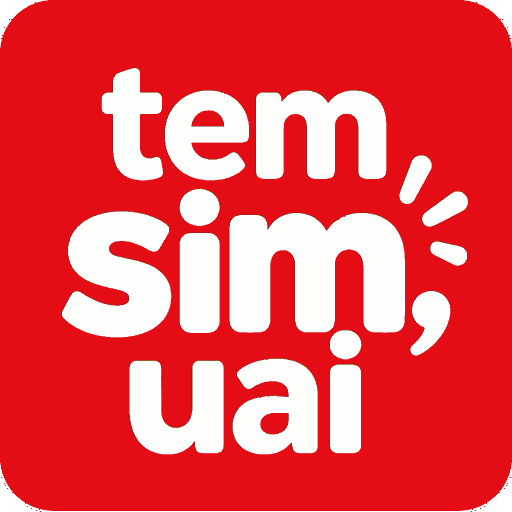
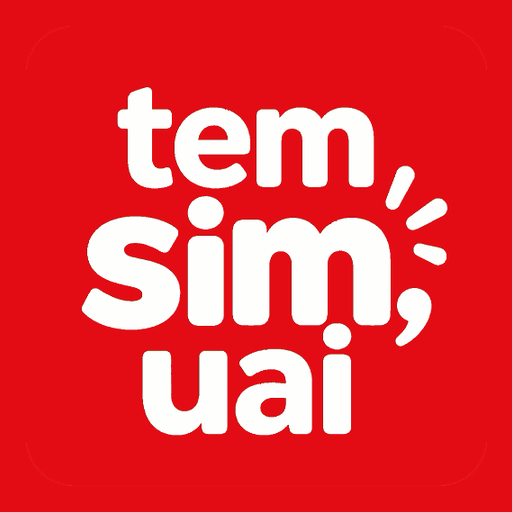
fix: reduz lettering dos ícones mobile do PWA

diff --git a/service-worker.js b/service-worker.js
@@ -1,4 +1,4 @@
-const CACHE_VERSION = 'mural-cultural-v128-panel-book-bulk';
+const CACHE_VERSION = 'mural-cultural-v129-mobile-icons';
 const CORE_CACHE = `${CACHE_VERSION}-core`;
 const DATA_CACHE = `${CACHE_VERSION}-data`;
 const IMAGE_CACHE = `${CACHE_VERSION}-images`;
@@ -33,7 +33,7 @@ const CORE_ASSETS = [
   './imagens/curadorias/agosto-lilas-banner.png',
   './manifest.webmanifest',
   './imagens/app-icons/icon-192.png', './imagens/app-icons/icon-512.png',
-  './imagens/app-icons/apple-touch-icon.png'
+  './imagens/app-icons/apple-touch-icon.png?v=2'
 ];
 
 const DATA_PATHS = [

diff --git a/index.html b/index.html
@@ -12,7 +12,7 @@
   <meta name="apple-mobile-web-app-title" content="Tem Sim, Uai">
   <title>Tem Sim, Uai</title>
   <link rel="manifest" href="manifest.webmanifest">
-  <link rel="apple-touch-icon" href="imagens/app-icons/apple-touch-icon.png">
+  <link rel="apple-touch-icon" href="imagens/app-icons/apple-touch-icon.png?v=2">
   <link rel="icon" type="image/png" sizes="32x32" href="imagens/app-icons/favicon-32.png">
   <link rel="preconnect" href="https://cdn.jsdelivr.net" crossorigin>
   <link rel="stylesheet" href="css/styles.css?v=78">
